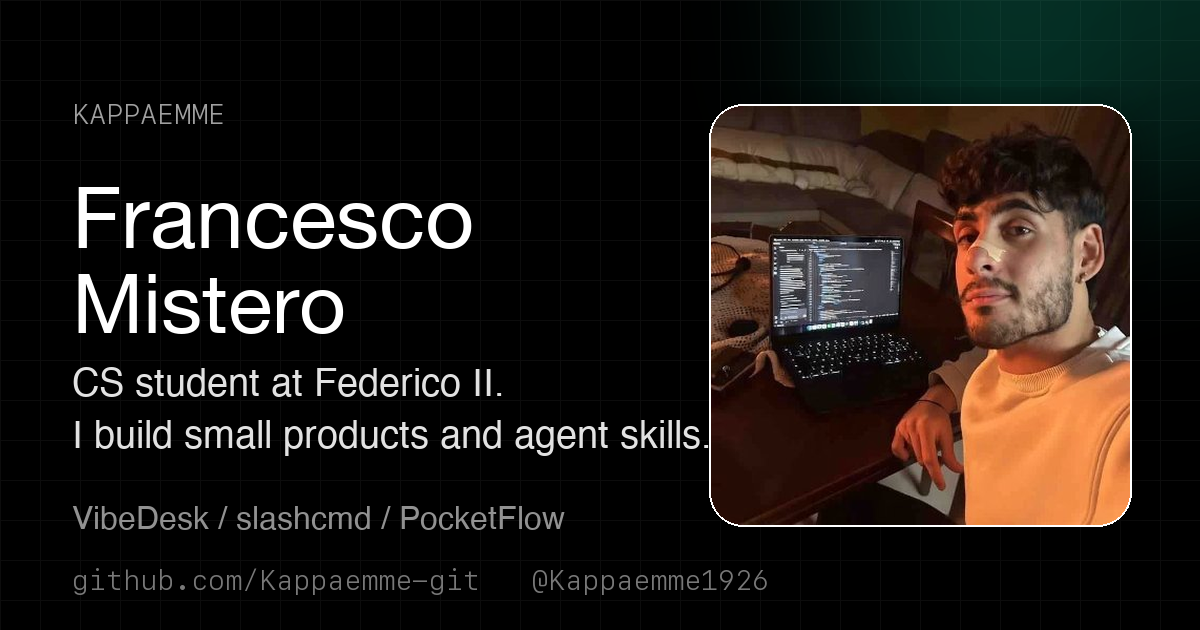
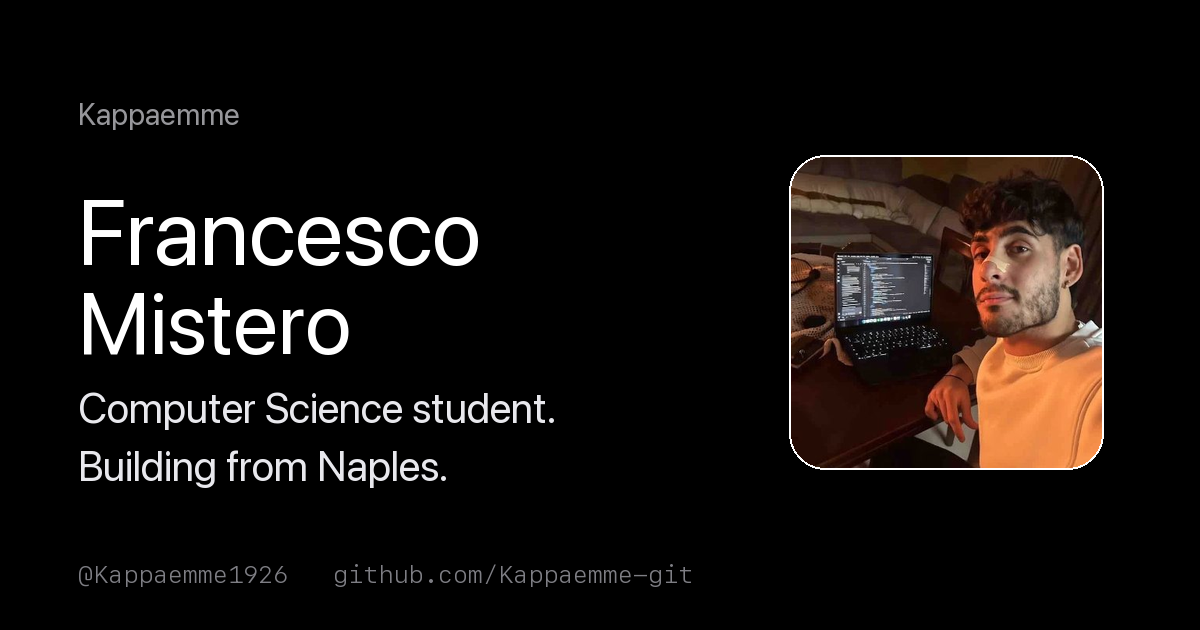
Refine social preview card

Changed region(s): [[0.0617, 0.0, 1.0, 0.8444], [0.0617, 0.9048, 0.6475, 0.9349], [0.0617, 0.1508, 0.2158, 0.2111]]

diff --git a/index.html b/index.html
@@ -4,7 +4,7 @@
 <meta charset="UTF-8">
 <meta name="viewport" content="width=device-width, initial-scale=1.0">
 <title>Kappaemme — Francesco Mistero · CS student & indie hacker</title>
-<meta name="description" content="Francesco Mistero, aka Kappaemme. CS student at Federico II, building VibeDesk, slashcmd, PocketFlow and Codex skills.">
+<meta name="description" content="Francesco Mistero, aka Kappaemme. CS student at Federico II in Naples. Projects, code and Codex skills.">
 <meta name="author" content="Francesco Mistero">
 <meta name="theme-color" content="#000000">
 <link rel="canonical" href="https://kappaemme.dev/">
@@ -12,7 +12,7 @@
 <!-- Open Graph / Twitter -->
 <meta property="og:type" content="website">
 <meta property="og:title" content="Kappaemme — Francesco Mistero">
-<meta property="og:description" content="CS student at Federico II. Building VibeDesk, slashcmd, PocketFlow and Codex skills.">
+<meta property="og:description" content="CS student at Federico II in Naples. Projects, code and Codex skills.">
 <meta property="og:url" content="https://kappaemme.dev/">
 <meta property="og:image" content="https://kappaemme.dev/images/og-preview.png">
 <meta property="og:image:secure_url" content="https://kappaemme.dev/images/og-preview.png">
@@ -22,7 +22,7 @@
 <meta name="twitter:card" content="summary_large_image">
 <meta name="twitter:creator" content="@Kappaemme1926">
 <meta name="twitter:title" content="Kappaemme — Francesco Mistero">
-<meta name="twitter:description" content="CS student at Federico II. Building VibeDesk, slashcmd, PocketFlow and Codex skills.">
+<meta name="twitter:description" content="CS student at Federico II in Naples. Projects, code and Codex skills.">
 <meta name="twitter:image" content="https://kappaemme.dev/images/og-preview.png">
 <meta name="twitter:image:alt" content="Francesco Mistero, Kappaemme, with his laptop.">
 
